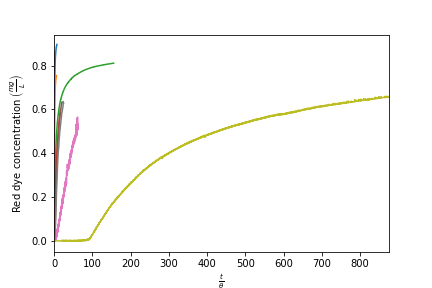
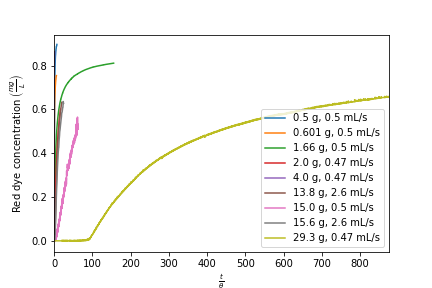
graph with legend

Changed region(s): [[0.6019, 0.375, 0.9028, 0.875]]

diff --git a/Lab6/team10_lab6.md b/Lab6/team10_lab6.md
@@ -18,6 +18,8 @@ $$\frac{L_{column}}{v_{mtz}} = \frac{L_{column}\phi}{v_a} + \frac{L_{column}q_0 
 
 ##### 3. Calculate the retardation coefficient (R_{adsorption}) based on the time to breakthrough for the columns with and without activated carbon. #
 
+To calculate the retardation
+
 $$R_{adsorption} = \frac{t_{mtz}}{t_{water}} = \frac{v_{pore}}{v_{mtz}} = \frac{v_a}{\phi v_{mtz}}$$
 
 $$R_{adsorption} =1+ \frac{q_0 M_{adsorbent}}{C_0 \phi V_{column}}$$
@@ -128,7 +130,7 @@ for i in range(np.size(filenames)):
 plt.xlabel(r'$\frac{t}{\theta}$')
 plt.xlim(right=875,left=0)
 plt.ylabel(r'Red dye concentration $\left ( \frac{mg}{L} \right )$')
-# plt.legend(mylegend)
+plt.legend(mylegend)
 plt.savefig('Lab6/Activated_carbon_2')
 plt.show()
 ```
